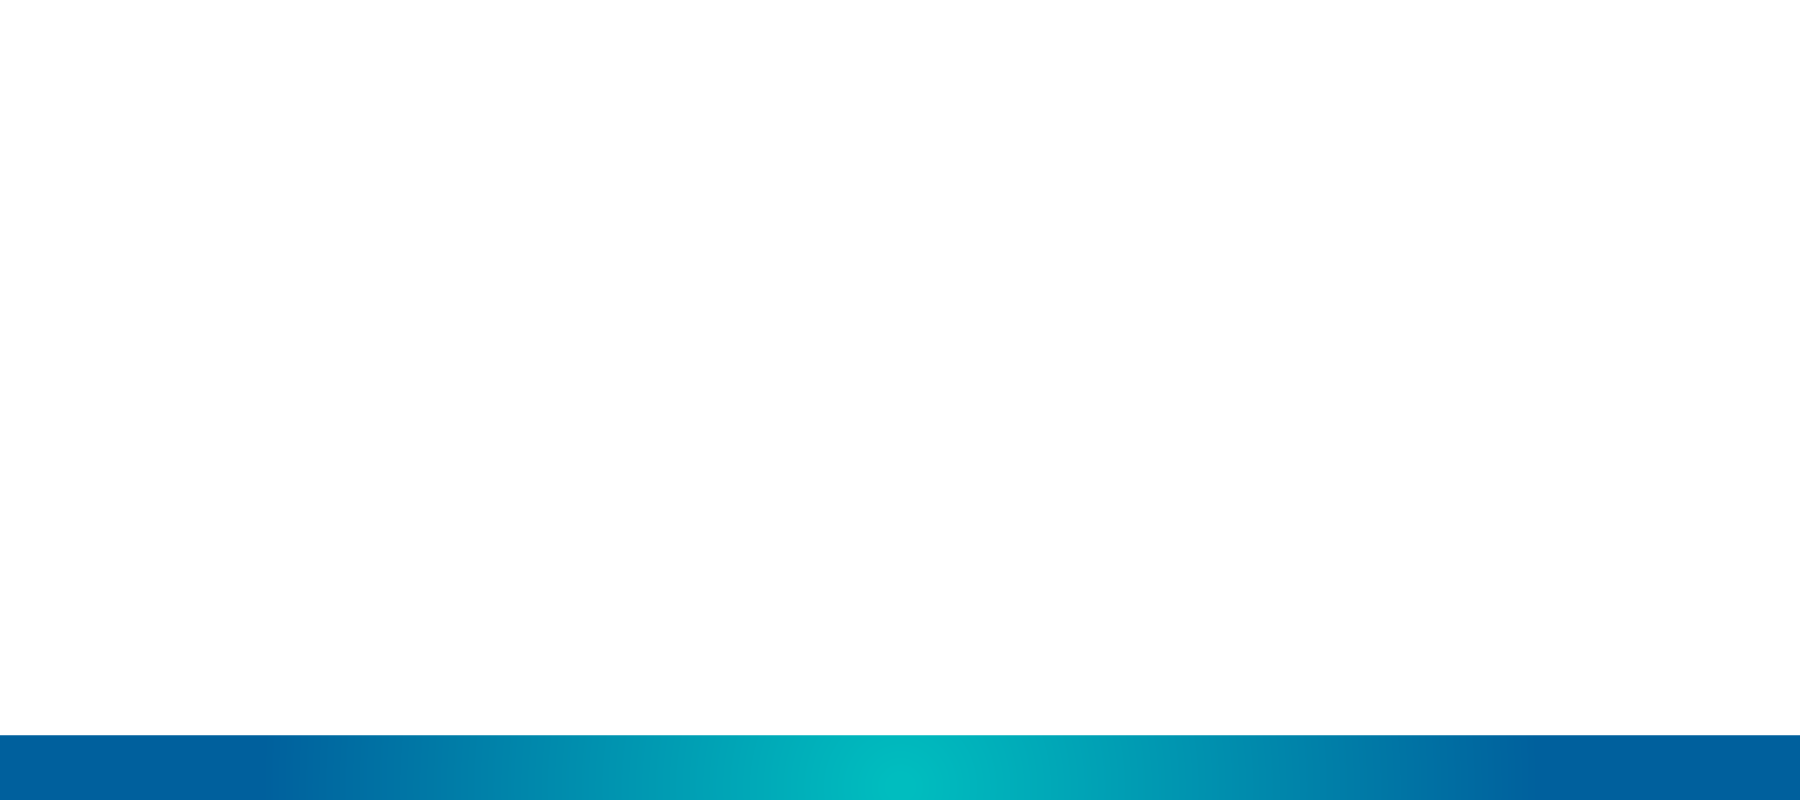
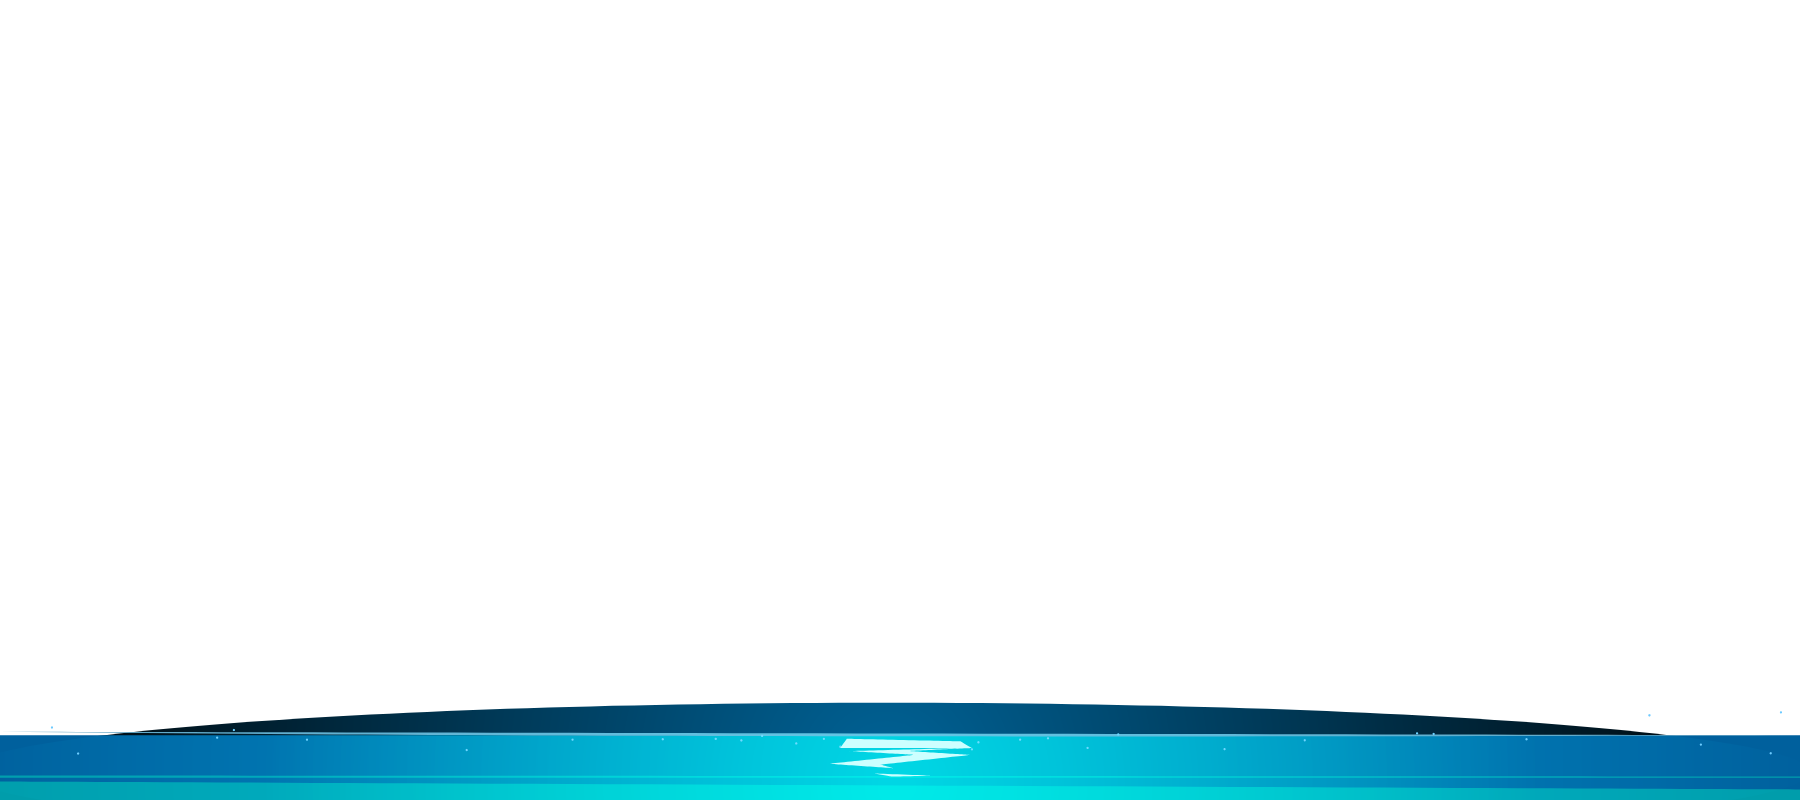
0222 commit

Changed region(s): [[0.0, 0.875, 1.0, 1.0]]

diff --git a/index.html b/index.html
@@ -49,9 +49,17 @@
             </nav>
             
           </div>
+          
+            <img src="images/whiteMoon.png" id="whiteMoon">
+            <img src="images/moonHighlight.png" id="moonHighlight">
             <img src="images/sea.png" id="sea">
-
+            <img src="images/frontMountain.png" id="frontMountain">
+            <img src="images/backMountains.png" id="backMountains">
         </div>
+      </section>
+
+      <section>
+
       </section>
     </header>
 

diff --git a/style.css b/style.css
@@ -18,13 +18,23 @@ body {
 }
 
 .heroImage {
-  background-image: url("images/darkNightBg.png");
+  background-image: url("images/nightStars.png");
   height: 100vh;
   background-position: center;
   background-repeat: no-repeat;
   background-size: cover;
   justify-content: center;
   align-items: center;
+}
+
+.whiteMoon {
+  margin: auto;
+  position: absolute;
+}
+
+.backMountain {
+  position: absolute;
+  margin-top: 20px;
 }
 
 .portfolioHead {
